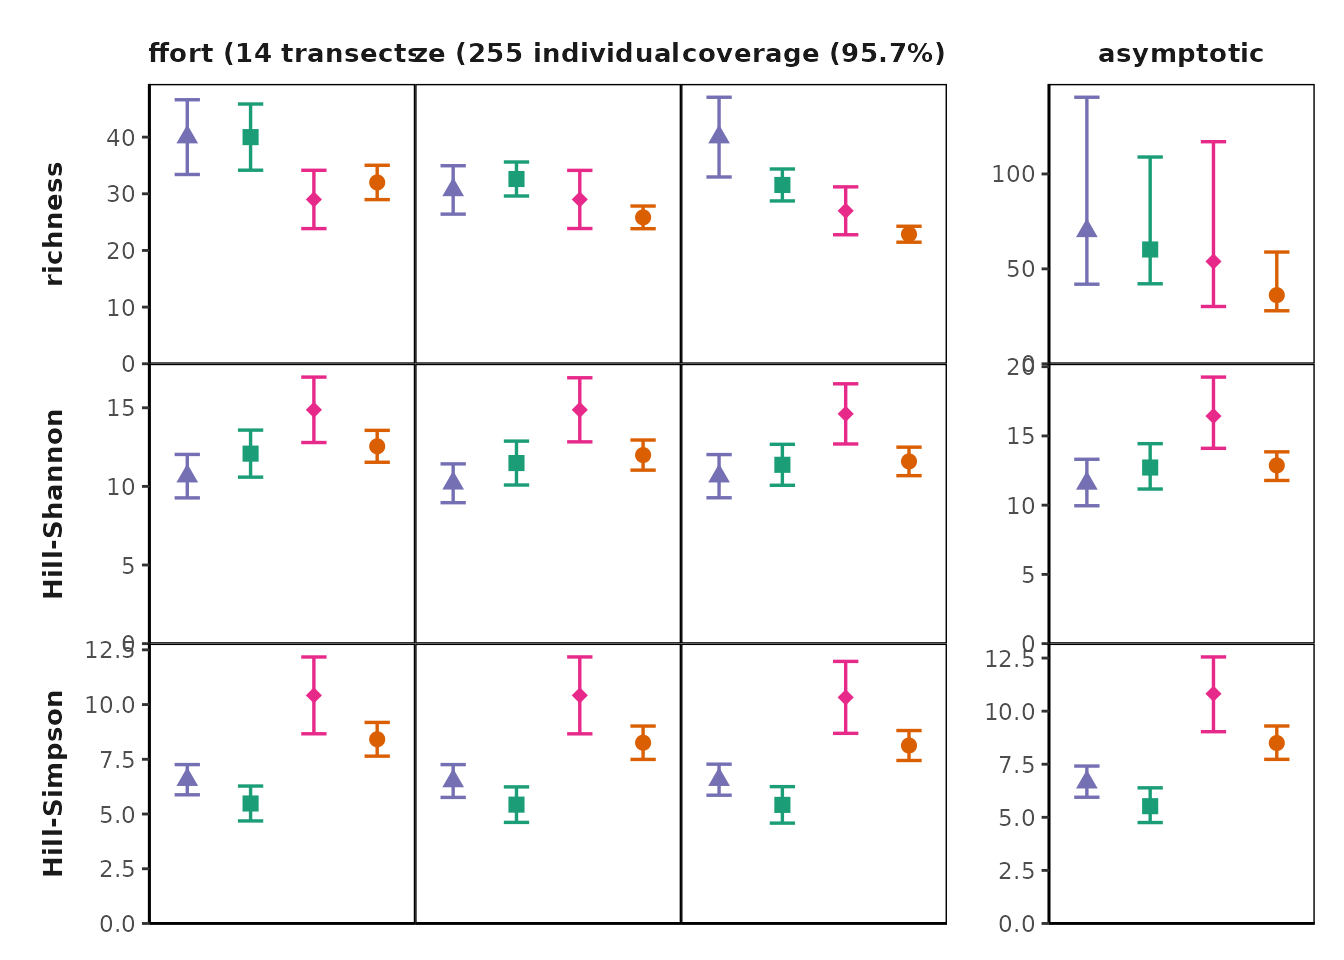
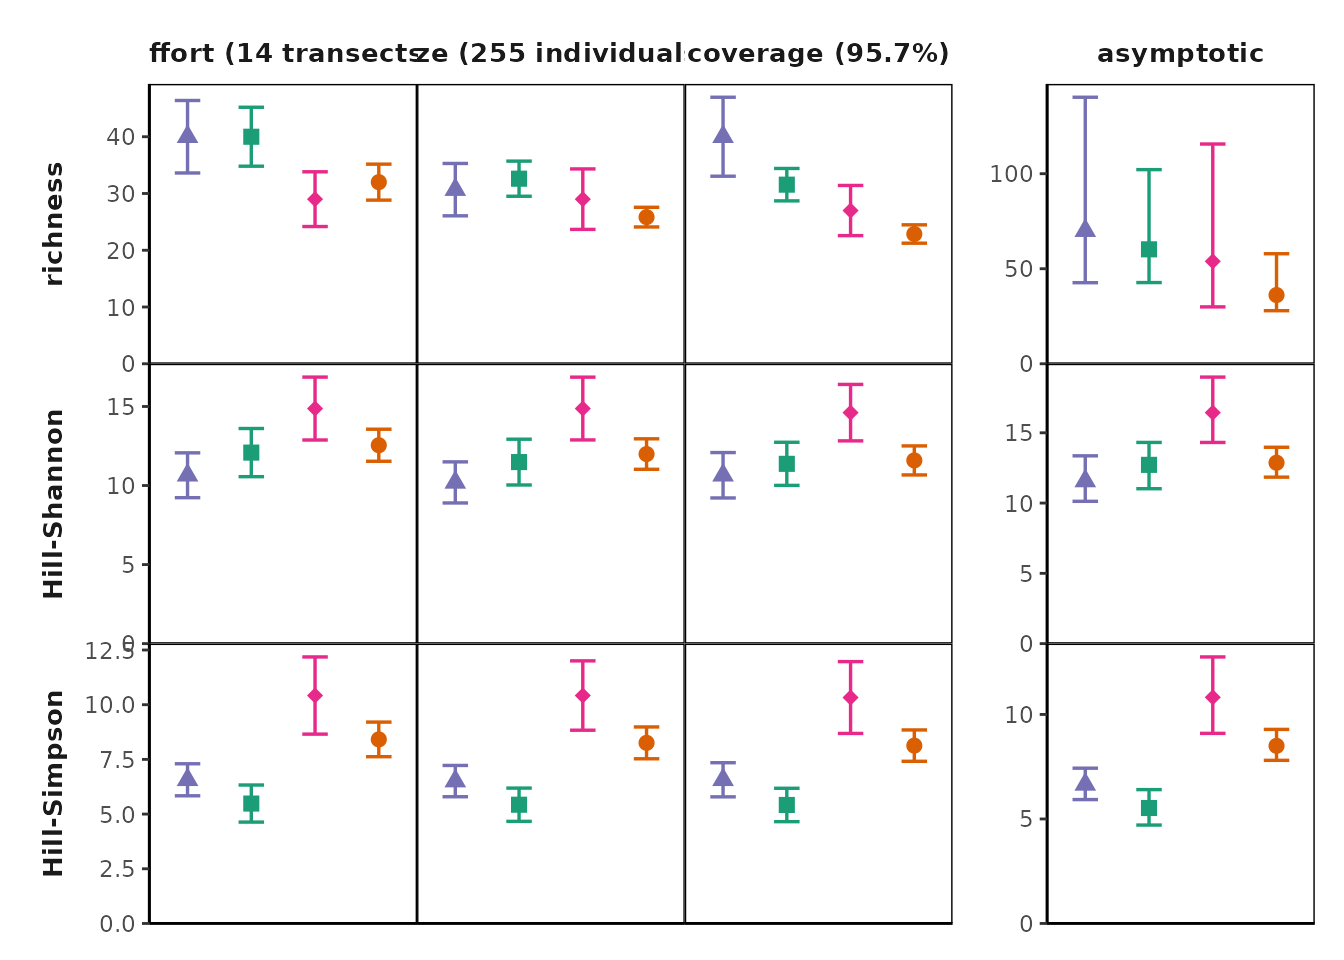
Built site for MeanRarity: 0.0.1.0003@84c4cf5

diff --git a/articles/Using_MeanRarity.html b/articles/Using_MeanRarity.html
@@ -303,16 +303,16 @@ fit_SAD--></p>
 <span class="va">uneven_sample</span> <span class="op">&lt;-</span> <span class="fu"><a href="../reference/sample_infinite.html">sample_infinite</a></span><span class="op">(</span><span class="va">uneven_SAD</span><span class="op">$</span><span class="va">rel_abundances</span>, <span class="fl">50</span><span class="op">)</span>
 <span class="co">#sample_infinite returns a numeric vector of sample species abundances</span>
 <span class="va">even_sample</span>
-<span class="co">#&gt;  [1] 11  5  8  3  4  1  0  3  3  2  1  1  1  0  0  1  1  2  1  2</span>
+<span class="co">#&gt;  [1]  6 10  5  1  2  5  1  2  1  4  0  2  1  1  1  3  2  2  0  1</span>
 <span class="va">uneven_sample</span>
-<span class="co">#&gt;  [1] 13 13  4  5  1  3  0  5  0  3  0  0  1  0  2  0  0  0  0  0</span>
+<span class="co">#&gt;  [1] 19  6  5  5  3  0  0  1  1  2  1  1  1  2  2  0  0  0  1  0</span>
 
 <span class="co"># we can compare evenness (given a scaling parameter `l`)</span>
 <span class="co"># the evenness is the normalized ratio of an arbitrary Hill diversity to richness</span>
 <span class="fu"><a href="../reference/e3Fun.html">e3Fun</a></span><span class="op">(</span><span class="va">even_sample</span>, <span class="op">-</span><span class="fl">1</span><span class="op">)</span>
-<span class="co">#&gt; [1] 0.5119485</span>
+<span class="co">#&gt; [1] 0.5590707</span>
 <span class="fu"><a href="../reference/e3Fun.html">e3Fun</a></span><span class="op">(</span><span class="va">uneven_sample</span>, <span class="op">-</span><span class="fl">1</span><span class="op">)</span>
-<span class="co">#&gt; [1] 0.5379024</span>
+<span class="co">#&gt; [1] 0.3287894</span>
 
 <span class="co"># compare diversity from sample vs. ideal SAD:</span>
 <span class="co"># likely pretty far off for a small sample!</span>
@@ -324,8 +324,8 @@ fit_SAD--></p>
 <span class="fu"><a href="https://rdrr.io/r/base/cbind.html" class="external-link">rbind</a></span><span class="op">(</span><span class="fu"><a href="https://rdrr.io/r/base/lapply.html" class="external-link">lapply</a></span><span class="op">(</span><span class="fu"><a href="https://rdrr.io/r/base/c.html" class="external-link">c</a></span><span class="op">(</span><span class="fl">1</span>, <span class="fl">0</span>, <span class="op">-</span><span class="fl">1</span><span class="op">)</span>, <span class="kw">function</span><span class="op">(</span><span class="va">l</span><span class="op">)</span><span class="op">{</span>
   <span class="fu"><a href="../reference/rarity.html">rarity</a></span><span class="op">(</span><span class="va">even_sample</span>, <span class="va">l</span><span class="op">)</span>
 <span class="op">}</span><span class="op">)</span><span class="op">)</span>
-<span class="co">#&gt;      [,1] [,2]     [,3]    </span>
-<span class="co">#&gt; [1,] 17   12.17032 9.191176</span>
+<span class="co">#&gt;      [,1] [,2]    [,3]   </span>
+<span class="co">#&gt; [1,] 18   13.4524 10.5042</span>
 
 <span class="co"># with an uneven SAD, sample Hill-Simpson can be higher than true Hill-Simpson</span>
 <span class="co"># richness is always lower</span>
@@ -335,8 +335,8 @@ fit_SAD--></p>
 <span class="fu"><a href="https://rdrr.io/r/base/cbind.html" class="external-link">rbind</a></span><span class="op">(</span><span class="fu"><a href="https://rdrr.io/r/base/lapply.html" class="external-link">lapply</a></span><span class="op">(</span><span class="fu"><a href="https://rdrr.io/r/base/c.html" class="external-link">c</a></span><span class="op">(</span><span class="fl">1</span>, <span class="fl">0</span>, <span class="op">-</span><span class="fl">1</span><span class="op">)</span>, <span class="kw">function</span><span class="op">(</span><span class="va">l</span><span class="op">)</span><span class="op">{</span>
   <span class="fu"><a href="../reference/rarity.html">rarity</a></span><span class="op">(</span><span class="va">uneven_sample</span>, <span class="va">l</span><span class="op">)</span>
 <span class="op">}</span><span class="op">)</span><span class="op">)</span>
-<span class="co">#&gt;      [,1] [,2]     [,3]    </span>
-<span class="co">#&gt; [1,] 10   7.285593 5.841121</span>
+<span class="co">#&gt;      [,1] [,2]    [,3]    </span>
+<span class="co">#&gt; [1,] 14   8.22471 5.274262</span>
 
 
 <span class="va">big_even_sample</span> <span class="op">&lt;-</span> <span class="fu"><a href="../reference/sample_infinite.html">sample_infinite</a></span><span class="op">(</span><span class="va">even_SAD</span><span class="op">$</span><span class="va">rel_abundances</span>, <span class="fl">1e7</span><span class="op">)</span>
@@ -349,8 +349,8 @@ fit_SAD--></p>
 <span class="fu"><a href="https://rdrr.io/r/base/cbind.html" class="external-link">rbind</a></span><span class="op">(</span><span class="fu"><a href="https://rdrr.io/r/base/lapply.html" class="external-link">lapply</a></span><span class="op">(</span><span class="fu"><a href="https://rdrr.io/r/base/c.html" class="external-link">c</a></span><span class="op">(</span><span class="fl">1</span>, <span class="fl">0</span>, <span class="op">-</span><span class="fl">1</span><span class="op">)</span>, <span class="kw">function</span><span class="op">(</span><span class="va">l</span><span class="op">)</span><span class="op">{</span>
   <span class="fu"><a href="../reference/rarity.html">rarity</a></span><span class="op">(</span><span class="va">big_even_sample</span>, <span class="va">l</span><span class="op">)</span>
 <span class="op">}</span><span class="op">)</span><span class="op">)</span>
-<span class="co">#&gt;      [,1] [,2]     [,3]    </span>
-<span class="co">#&gt; [1,] 20   15.11859 11.99533</span></code></pre></div>
+<span class="co">#&gt;      [,1] [,2]     [,3]   </span>
+<span class="co">#&gt; [1,] 20   15.12683 12.0062</span></code></pre></div>
 <p>For any distribution of relative abundances, one can ask, “what is the Hill diversity of this distribution?” Yet the answer, of course, depends on the chosen value of the scaling parameter <span class="math inline">\(\ell\)</span>. For a comprehensive answer, one might look across values of <span class="math inline">\(\ell\)</span>, also known as a Hill “diversity profile” <span class="citation">(Chao et al. 2014)</span>. <code>MeanRarity</code> provides a function to generate a Hill diversity profile based on <span class="math inline">\(\ell\)</span> (rather than <span class="math inline">\(q\)</span>): <code><a href="../reference/divpro.html">divpro()</a></code>. <!-- these should be on a single plot, will be much more interesting that way!--></p>
 <div class="sourceCode" id="cb8"><pre class="downlit sourceCode r">
 <code class="sourceCode R"><span class="co"># the even and uneven communities have same richness but different Hill diversity when `ell != 1`</span>

diff --git a/reference/Chao_Hill_abu.html b/reference/Chao_Hill_abu.html
@@ -110,11 +110,11 @@ ISSN 2041210X, doi: <a href="https://doi.org/10.1111/2041-21" class="external-li
 <span class="r-in"></span>
 <span class="r-in"><span class="co"># estimate true Hill diversity</span></span>
 <span class="r-in"><span class="fu">Chao_Hill_abu</span><span class="op">(</span><span class="va">abs</span>, l <span class="op">=</span> <span class="fl">1</span><span class="op">)</span> <span class="co"># Chao1 estimate of richness lower bound</span></span>
-<span class="r-out co"><span class="r-pr">#&gt;</span> [1] 40.62545</span>
+<span class="r-out co"><span class="r-pr">#&gt;</span> [1] 61.35</span>
 <span class="r-in"><span class="fu">Chao_Hill_abu</span><span class="op">(</span><span class="va">abs</span>, l <span class="op">=</span> <span class="fl">0</span><span class="op">)</span> <span class="co"># Asymptotic estimate of Hill-Shannon diversity</span></span>
-<span class="r-out co"><span class="r-pr">#&gt;</span> [1] 35.09196</span>
+<span class="r-out co"><span class="r-pr">#&gt;</span> [1] 30.87381</span>
 <span class="r-in"><span class="fu">Chao_Hill_abu</span><span class="op">(</span><span class="va">abs</span>, l <span class="op">=</span> <span class="op">-</span><span class="fl">1</span><span class="op">)</span> <span class="co"># Asymptotic estimate of Hill-Simpson diversity</span></span>
-<span class="r-out co"><span class="r-pr">#&gt;</span> [1] 27.59259</span>
+<span class="r-out co"><span class="r-pr">#&gt;</span> [1] 19.40104</span>
 <span class="r-in"></span>
 </code></pre></div>
     </div>

diff --git a/reference/hurl.html b/reference/hurl.html
@@ -121,7 +121,7 @@ doi: <a href="https://doi.org/10.2307/1934145" class="external-link">10.2307/193
     <h2>Examples</h2>
     <div class="sourceCode"><pre class="sourceCode r"><code><span class="r-in"><span class="va">ab</span> <span class="op">=</span> <span class="fu"><a href="https://rdrr.io/r/base/sample.html" class="external-link">sample</a></span><span class="op">(</span><span class="fl">10</span><span class="op">:</span><span class="fl">50</span>, <span class="fl">50</span>, replace <span class="op">=</span><span class="cn">TRUE</span><span class="op">)</span></span>
 <span class="r-in"><span class="fu">hurl</span><span class="op">(</span><span class="va">ab</span>, <span class="fl">2</span><span class="op">)</span></span>
-<span class="r-out co"><span class="r-pr">#&gt;</span> [1] 46.03336</span>
+<span class="r-out co"><span class="r-pr">#&gt;</span> [1] 44.7562</span>
 <span class="r-in"><span class="co"># not run</span></span>
 <span class="r-in"><span class="co"># hurl(ab, 1e5) # returns an error</span></span>
 <span class="r-in"></span>

diff --git a/reference/Chat.Ind.html b/reference/Chat.Ind.html
@@ -111,11 +111,11 @@ doi: <a href="https://doi.org/10.1890/11-1952.1" class="external-link">10.1890/1
 <span class="r-in"></span>
 <span class="r-in"><span class="co"># estimate coverage of sample</span></span>
 <span class="r-in"><span class="fu">Chat.Ind</span><span class="op">(</span><span class="va">abs</span><span class="op">)</span></span>
-<span class="r-out co"><span class="r-pr">#&gt;</span> [1] 0.9070232</span>
+<span class="r-out co"><span class="r-pr">#&gt;</span> [1] 0.9139552</span>
 <span class="r-in"></span>
 <span class="r-in"><span class="co"># estimate coverage under rarefaction</span></span>
 <span class="r-in"><span class="fu">Chat.Ind</span><span class="op">(</span><span class="va">abs</span>, m <span class="op">=</span> <span class="fl">100</span><span class="op">)</span></span>
-<span class="r-out co"><span class="r-pr">#&gt;</span> [1] 0.8650806</span>
+<span class="r-out co"><span class="r-pr">#&gt;</span> [1] 0.864284</span>
 </code></pre></div>
     </div>
   </div>

diff --git a/reference/sample_finite.html b/reference/sample_finite.html
@@ -91,7 +91,7 @@ scalar</p></dd>
     <div id="ref-examples">
     <h2>Examples</h2>
     <div class="sourceCode"><pre class="sourceCode r"><code><span class="r-in"><span class="fu">sample_finite</span><span class="op">(</span><span class="fl">1</span><span class="op">:</span><span class="fl">9</span>, <span class="fl">15</span><span class="op">)</span></span>
-<span class="r-out co"><span class="r-pr">#&gt;</span> [1] 1 1 1 0 2 2 2 2 4</span>
+<span class="r-out co"><span class="r-pr">#&gt;</span> [1] 0 1 0 3 0 3 1 2 5</span>
 </code></pre></div>
     </div>
   </div>
